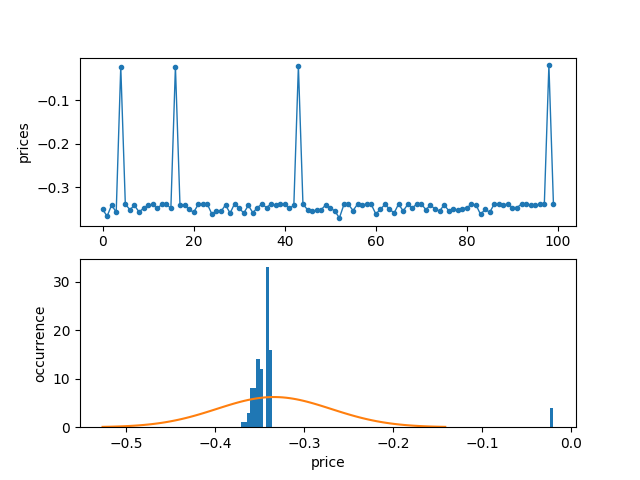
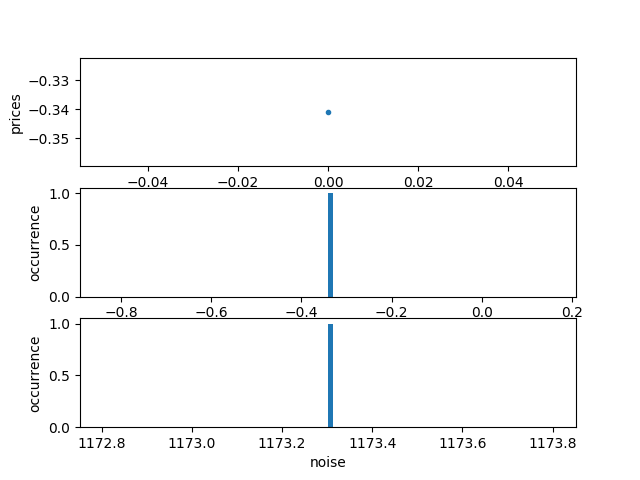
xx

diff --git a/core.py b/core.py
@@ -211,7 +211,7 @@ def do_guess_seq(start,
         interval += 1
 
         LOG.debug("After do_guess_helper, len(individual_p_list): {}, len(individual_p_list[0]): {}".format(len(individual_p_list), len(individual_p_list[0])))
-    return guess_price_seq[1:]
+    return guess_price_seq[1:], bk
 
 
 def repeat(k,
@@ -255,26 +255,27 @@ def repeat(k,
     guess_price_seq_stack = []
 
     individual_p_list = [[o[k-1]] for o in operator_outputs]
-
+    bk_list = []
     for _ in range(repeating):
-        guess_price_seq = do_guess_seq(k,
-                                       seq,
-                                       prev_gt_price,
-                                       curr_gt_price,
-                                       prev_gt_prediction,
-                                       curr_gt_prediction,
-                                       mu,
-                                       sigma,
-                                       nb_plays,
-                                       activation,
-                                       sign,
-                                       individual_p_list,
-                                       weights,
-                                       hysteresis_info)
-
+        guess_price_seq, bk = do_guess_seq(k,
+                                           seq,
+                                           prev_gt_price,
+                                           curr_gt_price,
+                                           prev_gt_prediction,
+                                           curr_gt_prediction,
+                                           mu,
+                                           sigma,
+                                           nb_plays,
+                                           activation,
+                                           sign,
+                                           individual_p_list,
+                                           weights,
+                                           hysteresis_info)
+        bk_list.append(bk)
         guess_price_seq_stack.append(guess_price_seq)
 
     guess_price_seq_stack_ = np.array(guess_price_seq_stack)
+    bk_list_ = np.array(bk_list)
     # LOG.debug("guess_price_seq_stack_: {}".format(guess_price_seq_stack_))
     # LOG.debug("guess_price_seq_stack_.shape: {}".format(guess_price_seq_stack_.shape))
     # LOG.debug("guess_price_seq_stack_.mean(): {}".format(guess_price_seq_stack_.mean()))
@@ -283,7 +284,7 @@ def repeat(k,
     avg_guess = guess_price_seq_stack_.mean(axis=0)[-1]
     LOG.debug(colors.red(logger_string3.format(k, float(avg_guess), float(curr_gt_price), float(prev_gt_price), float(guess_price_seq_stack_.std()))))
     LOG.debug("********************************************************************************")
-    utils.plot_internal_transaction(hysteresis_info, k, predicted_price=float(avg_guess), mu=mu, sigma=sigma, guess_price_seq=guess_price_seq_stack_)
+    utils.plot_internal_transaction(hysteresis_info, k, predicted_price=float(avg_guess), mu=mu, sigma=sigma, guess_price_seq=guess_price_seq_stack_, bk_list=bk_list_)
 
     return avg_guess
 
@@ -1713,7 +1714,7 @@ class MyModel(object):
     def trend(self, prices, B, mu, sigma,
               start_pos=1000, end_pos=1100,
               delta=0.001, max_iteration=10000):
-        tart_pos = 500
+        start_pos = 500
         end_pos = 510
         # end_pos = 600
         # end_pos = 1012

diff --git a/utils.py b/utils.py
@@ -248,12 +248,15 @@ def plot_internal_transaction(hysteresis_info, i=None, predicted_price=None, **k
     plot_hysteresis_info(hysteresis_info, i, predicted_price=predicted_price, ax=ax2)
     # plt.show()
     guess_price_seq = kwargs.pop('guess_price_seq', None)
+    bk_list = kwargs.pop('bk_list', None)
     if guess_price_seq is not None:
         # fig1, (ax3, ax4) = plt.subplots(2, sharex=True, figsize=(20, 20))
-        fig1, (ax3, ax4) = plt.subplots(2, sharex=False)
+        fig1, (ax3, ax4, ax5) = plt.subplots(3, sharex=False)
         guess_price_seq = guess_price_seq.reshape(-1)
+        bk_list = bk_list.reshape(-1)
         plot_price_span(guess_price_seq, ax3)
         plot_price_distribution(guess_price_seq, ax4)
+        plot_noise_distribution(bk_list, ax5)
 
         if mu is None and sigma is None:
             fname = './frames/{}-distribution.png'.format(i)
@@ -356,6 +359,17 @@ def plot_price_distribution(guess_price_seq, ax):
     ax.plot(x, stats.norm.pdf(x, mu, sigma))
 
     ax.set_xlabel('price')
+    ax.set_ylabel('occurrence')
+
+
+def plot_noise_distribution(bk_list, ax):
+    ax.hist(bk_list, bins=100)
+    mu = bk_list.mean()
+    sigma = bk_list.std()
+    x = np.linspace(mu - 3*sigma, mu + 3*sigma, 100)
+    ax.plot(x, stats.norm.pdf(x, mu, sigma))
+
+    ax.set_xlabel('noise')
     ax.set_ylabel('occurrence')
 
 
